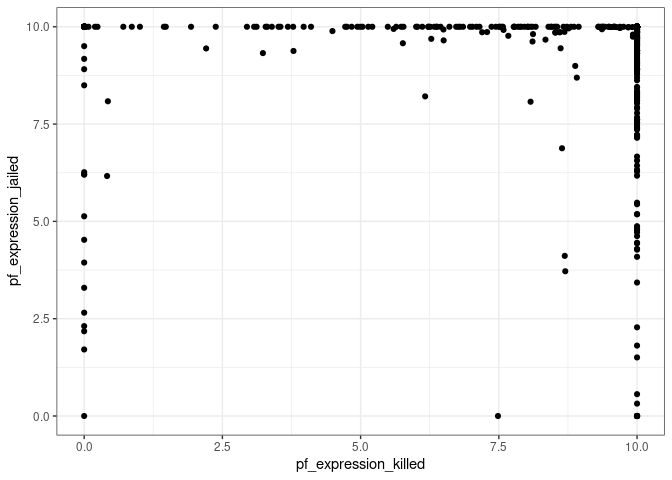
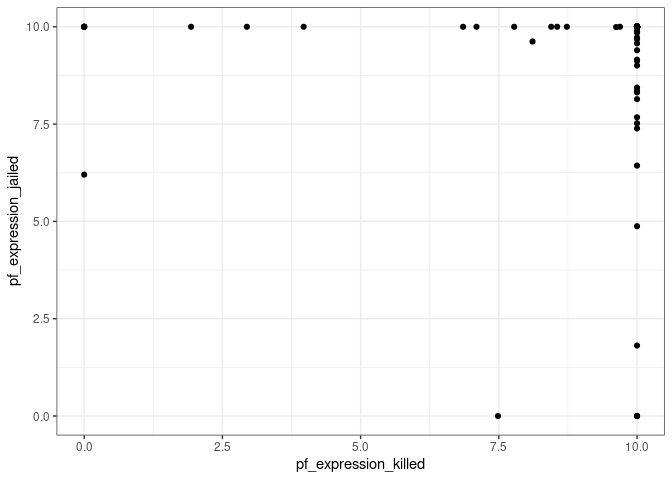
Day 2 submit

diff --git a/day01-fitting/activity03.md b/day01-fitting/activity03.md
@@ -18,10 +18,14 @@ hfi <- readr::read_csv("https://www.openintro.org/data/csv/hfi.csv")
     ## ℹ Use `spec()` to retrieve the full column specification for this data.
     ## ℹ Specify the column types or set `show_col_types = FALSE` to quiet this message.
 
+``` r
+hfi_2016 <- filter(hfi, year == 2016)
+```
+
 ### Describe pf\_score
 
 ``` r
-hfi %>% 
+hfi_2016 %>% 
   ggplot(aes(x=pf_score)) +
   geom_histogram() + 
   theme_bw()
@@ -38,7 +42,7 @@ with a score averaging 7 and others averaging 9.
 ### Comparing Killed vs Jailed
 
 ``` r
-hfi %>% 
+hfi_2016 %>% 
   ggplot(aes(x=pf_expression_killed, y=pf_expression_jailed)) + 
   geom_point() +
   theme_bw()
@@ -52,7 +56,7 @@ to be linear.
 ### Pairwise Relationships
 
 ``` r
-hfi %>% 
+hfi_2016 %>% 
   select(ends_with("_score")) %>% 
   ggpairs() + 
   theme_bw()
@@ -67,16 +71,16 @@ there appears very few data points with a `pf_score` under 4 and
 ### The Multiple Linear Regression Model
 
 ``` r
-m_hr_ef <- lm(pf_score ~ hf_score + ef_score, data = hfi)
+m_hr_ef <- lm(pf_score ~ hf_score + ef_score, data = hfi_2016)
 tidy(m_hr_ef)
 ```
 
     ## # A tibble: 3 × 5
     ##   term         estimate std.error statistic p.value
     ##   <chr>           <dbl>     <dbl>     <dbl>   <dbl>
-    ## 1 (Intercept)  1.46e-11  1.50e-10  9.78e- 2   0.922
-    ## 2 hf_score     2.00e+ 0  3.63e-11  5.52e+10   0    
-    ## 3 ef_score    -1.00e+ 0  4.21e-11 -2.38e+10   0
+    ## 1 (Intercept)  1.44e-10  4.34e-10  3.32e- 1   0.741
+    ## 2 hf_score     2.00e+ 0  9.66e-11  2.07e+10   0    
+    ## 3 ef_score    -1.00e+ 0  1.18e-10 -8.49e+ 9   0
 
 y = 1.464213e-11 + 2`hf_score` - 1`ef_score`
 
@@ -89,5 +93,145 @@ of `ef_score` then `pf_score` will decrease by 1.
 ``` r
 # Visual Idea from https://stackoverflow.com/questions/45052188/how-to-plot-3d-scatter-diagram-using-ggplot
 #library(plotly)
-# plot_ly(x=hfi$pf_score, y=hfi$hf_score, z=hfi$ef_score, type="scatter3d", mode="markers", color = hfi$pf_score) 
+# plot_ly(x=hfi_2016$pf_score, y=hfi_2016$hf_score, z=hfi_2016$ef_score, type="scatter3d", mode="markers", color = hfi_2016$pf_score) 
 ```
+
+## Day 2
+
+### Is One Predictor Useful?
+
+``` r
+# review any visual patterns
+hfi_2016 %>% 
+  select(pf_score, pf_expression_influence, pf_expression_control) %>% 
+  ggpairs()
+```
+
+![](activity03_files/figure-gfm/usefulness-1.png)<!-- -->
+
+``` r
+#fit the mlr model
+m_pf <- lm(pf_score ~ pf_expression_influence + pf_expression_control, data = hfi_2016)
+tidy(m_pf)
+```
+
+    ## # A tibble: 3 × 5
+    ##   term                    estimate std.error statistic  p.value
+    ##   <chr>                      <dbl>     <dbl>     <dbl>    <dbl>
+    ## 1 (Intercept)                4.33     0.147      29.4  3.02e-66
+    ## 2 pf_expression_influence    0.155    0.0574      2.70 7.68e- 3
+    ## 3 pf_expression_control      0.380    0.0655      5.81 3.29e- 8
+
+In a model of `pf_expression_influence` and `pf_expression_control` both
+variables are useful in explaining the y variable. The correlation
+values mean that each variable is strongly positively correlated with
+`pf_score`.
+
+``` r
+summary(m_pf)
+```
+
+    ## 
+    ## Call:
+    ## lm(formula = pf_score ~ pf_expression_influence + pf_expression_control, 
+    ##     data = hfi_2016)
+    ## 
+    ## Residuals:
+    ##      Min       1Q   Median       3Q      Max 
+    ## -2.74651 -0.46378  0.05426  0.55326  1.62682 
+    ## 
+    ## Coefficients:
+    ##                         Estimate Std. Error t value Pr(>|t|)    
+    ## (Intercept)              4.32622    0.14697  29.436  < 2e-16 ***
+    ## pf_expression_influence  0.15487    0.05736   2.700  0.00768 ** 
+    ## pf_expression_control    0.38036    0.06545   5.811 3.29e-08 ***
+    ## ---
+    ## Signif. codes:  0 '***' 0.001 '**' 0.01 '*' 0.05 '.' 0.1 ' ' 1
+    ## 
+    ## Residual standard error: 0.784 on 159 degrees of freedom
+    ## Multiple R-squared:  0.7267, Adjusted R-squared:  0.7232 
+    ## F-statistic: 211.4 on 2 and 159 DF,  p-value: < 2.2e-16
+
+With an alpha of 0.05, the p-value is less than alpha so we must reject
+the null hypothesis. This means that at least one of the variables in
+this model is impactful on our predictor, so either
+`pf_expression_influence` or `pf_expression_control` is correlated with
+`pf_score`.
+
+The standard error of the two variables differ by .008.
+
+### Deciding on Important Variables
+
+The t-values of each variable is correct where the t-values = estimate /
+std. error. TODO: 5,6,7
+
+### Model Fit
+
+``` r
+glance(m_pf)
+```
+
+    ## # A tibble: 1 × 12
+    ##   r.squared adj.r.squa…¹ sigma stati…²  p.value    df logLik   AIC   BIC devia…³
+    ##       <dbl>        <dbl> <dbl>   <dbl>    <dbl> <dbl>  <dbl> <dbl> <dbl>   <dbl>
+    ## 1     0.727        0.723 0.784    211. 1.65e-45     2  -189.  386.  398.    97.7
+    ## # … with 2 more variables: df.residual <int>, nobs <int>, and abbreviated
+    ## #   variable names ¹adj.r.squared, ²statistic, ³deviance
+
+The R-squared value is .7267 which means that this model improves the
+prediction accuracy by 72.67% over using the average of `pf_score`. The
+r-squared value of the single linear regression model is .669 so this
+multiple linear regression model has an improved accuracy of 10%.
+
+``` r
+# obtain fitted values and residuals
+m_pf_aug <- augment(m_pf)
+
+# plot fitted values and residuals
+ggplot(data = m_pf_aug, aes(x = .fitted, y = .resid)) +
+  geom_point() +
+  geom_hline(yintercept = 0, linetype = "dashed", color = "red") +
+  xlab("Fitted values") +
+  ylab("Residuals") + 
+  theme_bw()
+```
+
+![](activity03_files/figure-gfm/plot_residuals-1.png)<!-- -->
+
+The residual variation progressively decreases and there are larger
+negative deviations.
+
+``` r
+ggplot(data = m_pf_aug, aes(x = .resid)) +
+  geom_histogram(binwidth = 0.25) +
+  xlab("Residuals") + 
+  theme_bw()
+```
+
+![](activity03_files/figure-gfm/nearly%20normal%20residuals-1.png)<!-- -->
+
+The residuals histogram appears to be slightly left skewed.
+
+### Prediction
+
+``` r
+hfi %>% 
+  filter(countries == "United States" & year == 2016) %>% 
+  select(pf_score, pf_expression_influence, pf_expression_control)
+```
+
+    ## # A tibble: 1 × 3
+    ##   pf_score pf_expression_influence pf_expression_control
+    ##      <dbl>                   <dbl>                 <dbl>
+    ## 1     8.75                       8                     7
+
+``` r
+hfi %>% 
+  filter(countries == "United States" & year == 2016) %>% 
+  predict(m_pf, .)
+```
+
+    ##        1 
+    ## 8.227657
+
+There error in the United States prediction is 0.52.
